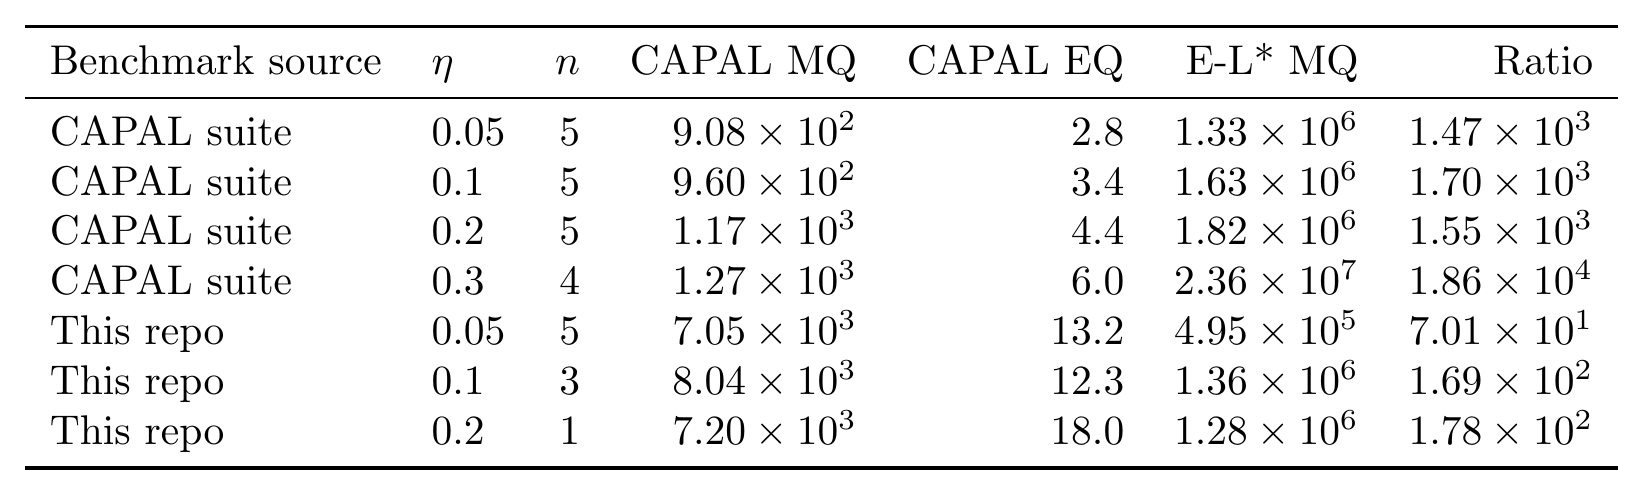
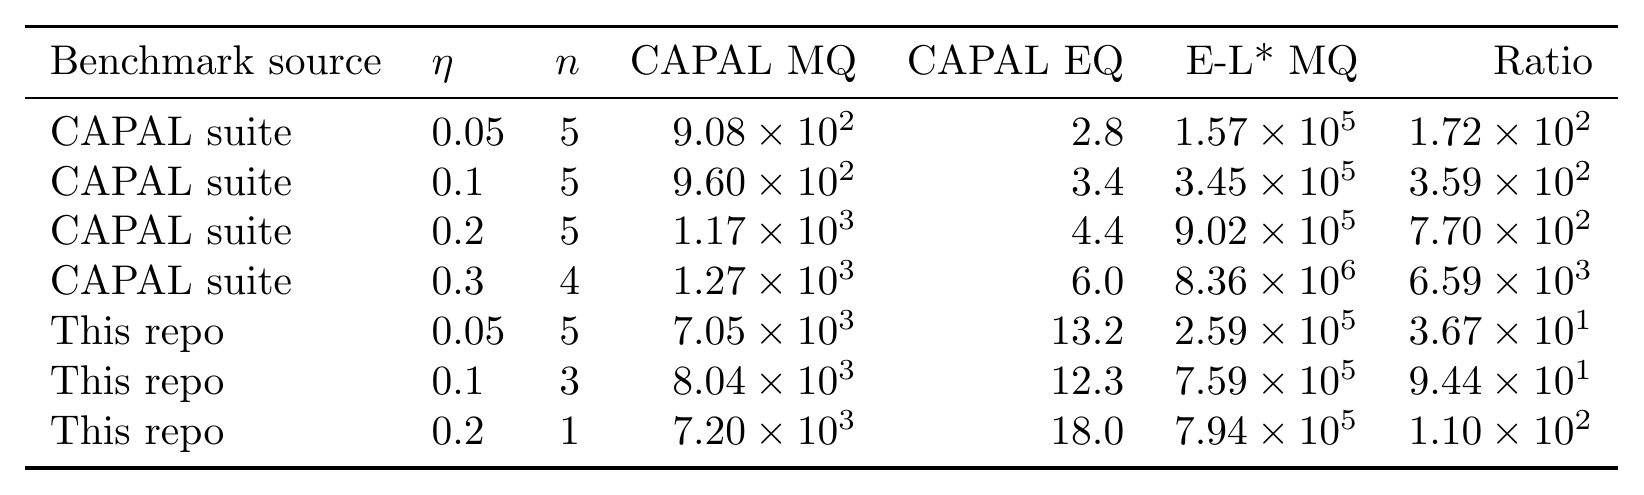
Matched budget: max_iters 10000 -> 500
Raising it to 10000 was meant to stop cells ending before their budget bound. It
cannot do that: a stalled run reaches a fixed point where further iterations
issue no new queries, so the extra rounds buy nothing and only cost wall clock.

Measured on regex_alt_111_or_000_3sym seed 2, which stalls:

    max_iters=10000  mq=22,005  acc=0.4288  4 states  370s
    max_iters=500    mq=22,005  acc=0.4288  4 states   20s

Identical answer, 18x faster. A productive run is nowhere near the cap either --
the parity cells spend their entire 1.25M budget in 6 to 8 iterations -- so 500
is well clear of what real work needs.

diff --git a/figures/capal-comparison/query_cost.tex b/figures/capal-comparison/query_cost.tex
@@ -2,12 +2,12 @@
 \toprule
 Benchmark source & $\eta$ & $n$ & CAPAL MQ & CAPAL EQ & E-L* MQ & Ratio \\
 \midrule
-CAPAL suite & 0.05 & 5 & $9.08 \times 10^{2}$ & 2.8 & $1.33 \times 10^{6}$ & $1.47 \times 10^{3}$ \\
-CAPAL suite & 0.1 & 5 & $9.60 \times 10^{2}$ & 3.4 & $1.63 \times 10^{6}$ & $1.70 \times 10^{3}$ \\
-CAPAL suite & 0.2 & 5 & $1.17 \times 10^{3}$ & 4.4 & $1.82 \times 10^{6}$ & $1.55 \times 10^{3}$ \\
-CAPAL suite & 0.3 & 4 & $1.27 \times 10^{3}$ & 6.0 & $2.36 \times 10^{7}$ & $1.86 \times 10^{4}$ \\
-This repo & 0.05 & 5 & $7.05 \times 10^{3}$ & 13.2 & $4.95 \times 10^{5}$ & $7.01 \times 10^{1}$ \\
-This repo & 0.1 & 3 & $8.04 \times 10^{3}$ & 12.3 & $1.36 \times 10^{6}$ & $1.69 \times 10^{2}$ \\
-This repo & 0.2 & 1 & $7.20 \times 10^{3}$ & 18.0 & $1.28 \times 10^{6}$ & $1.78 \times 10^{2}$ \\
+CAPAL suite & 0.05 & 5 & $9.08 \times 10^{2}$ & 2.8 & $1.57 \times 10^{5}$ & $1.72 \times 10^{2}$ \\
+CAPAL suite & 0.1 & 5 & $9.60 \times 10^{2}$ & 3.4 & $3.45 \times 10^{5}$ & $3.59 \times 10^{2}$ \\
+CAPAL suite & 0.2 & 5 & $1.17 \times 10^{3}$ & 4.4 & $9.02 \times 10^{5}$ & $7.70 \times 10^{2}$ \\
+CAPAL suite & 0.3 & 4 & $1.27 \times 10^{3}$ & 6.0 & $8.36 \times 10^{6}$ & $6.59 \times 10^{3}$ \\
+This repo & 0.05 & 5 & $7.05 \times 10^{3}$ & 13.2 & $2.59 \times 10^{5}$ & $3.67 \times 10^{1}$ \\
+This repo & 0.1 & 3 & $8.04 \times 10^{3}$ & 12.3 & $7.59 \times 10^{5}$ & $9.44 \times 10^{1}$ \\
+This repo & 0.2 & 1 & $7.20 \times 10^{3}$ & 18.0 & $7.94 \times 10^{5}$ & $1.10 \times 10^{2}$ \\
 \bottomrule
 \end{tabular}

diff --git a/orthogonal_dfa/experiments/capal_comparison/run_wall_sweep.py b/orthogonal_dfa/experiments/capal_comparison/run_wall_sweep.py
@@ -67,7 +67,12 @@ CONFIGS: List[Tuple[str, Dict[str, Any]]] = [
 #: spend the budget -- at its shipped settings it stops after a few thousand
 #: queries, far short of E-L*'s millions, and the comparison would be vacuous.
 #: `max_iters` is raised for the same reason: the run should end because the
-#: budget ran out, not because the iteration cap did.
+#: budget ran out, not because the iteration cap did. 500 is well clear of what
+#: a productive run needs -- the parity cells spend their whole budget in 6 to 8
+#: iterations -- and a stalled run gets no value from more: on
+#: regex_alt_111_or_000_3sym the distinct-query count and the learned automaton
+#: are identical at 50 iterations and at 10000, so the extra rounds only cost
+#: wall clock.
 #:
 #: Every knob here is at or above the sweep's range, so this cannot be read as
 #: CAPAL being under-provisioned on some axis relative to experiment 3:
@@ -82,7 +87,7 @@ MATCHED_BUDGET_CONFIGS: List[Tuple[str, Dict[str, Any]]] = [
             suffix_pool_len_max=24,
             enum_depth=8,
             extra_len_max=16,
-            max_iters=10_000,
+            max_iters=500,
         ),
     ),
 ]
